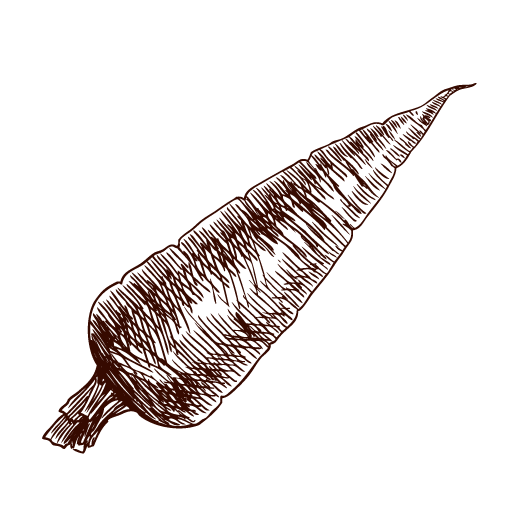
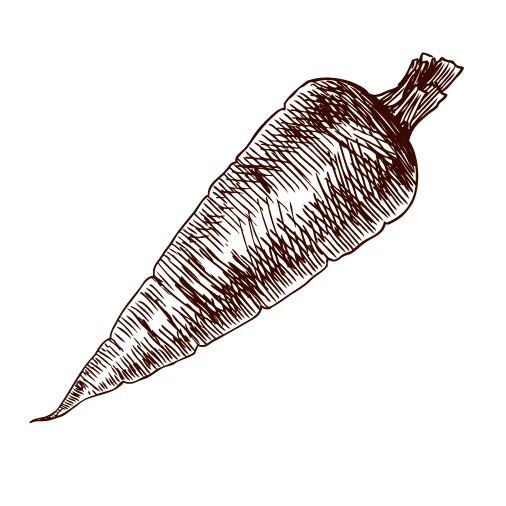
Added images in menu.html

Changed region(s): [[0.0593, 0.0889, 0.9486, 0.919]]

diff --git a/menu.html b/menu.html
@@ -49,30 +49,35 @@
             <div class="menu-container">
                 <div class="menu-content">
                 </div>
+                <div class="bg-art"><img src="../assets/img/BellPepper.png" alt=""></div>
             </div>
         </section>
         <section class="menu-section sbw-section">
             <div class="menu-container">
                 <div class="menu-content">
                 </div>
+                <div class="bg-art"><img src="../assets/img/cabbage.png" alt=""></div>
             </div>
         </section>
         <section class="menu-section smoothies-section">
             <div class="menu-container">
                 <div class="menu-content">
                 </div>
+                <div class="bg-art"><img src="../assets/img/tomato.png" alt=""></div>
             </div>
         </section>
         <section class="menu-section waffle-section">
             <div class="menu-container">
                 <div class="menu-content">
                 </div>
+                <div class="bg-art"><img src="../assets/img/cucumber.png" alt=""></div>
             </div>
         </section>
         <section class="menu-section juices-section">
             <div class="menu-container">
                 <div class="menu-content">
                 </div>
+                <div class="bg-art"><img src="../assets/img/carrot.png" alt=""></div>
             </div>
         </section>
     </main>

diff --git a/css/menu.css b/css/menu.css
@@ -43,7 +43,7 @@
 
 .menu-content {
     max-width: 700px;
-    padding: 3rem;
+    padding: 2rem 3rem;
     margin: 0 auto;
 }
 
@@ -66,6 +66,16 @@
 
 .menu-content ul li {
     font-size: 1.2rem;
+}
+
+.menu-container .bg-art {
+    display: flex;
+    justify-content: center;
+    padding: 2rem;
+}
+
+.menu-container .bg-art>img {
+    height: 8rem;
 }
 
 @media (orientation: portrait) {
